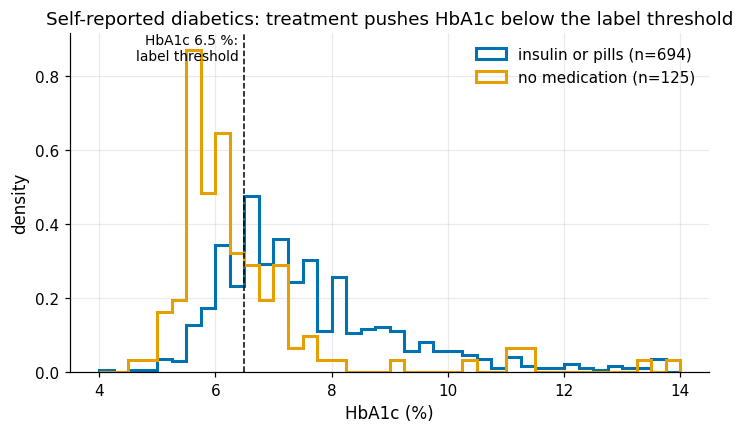
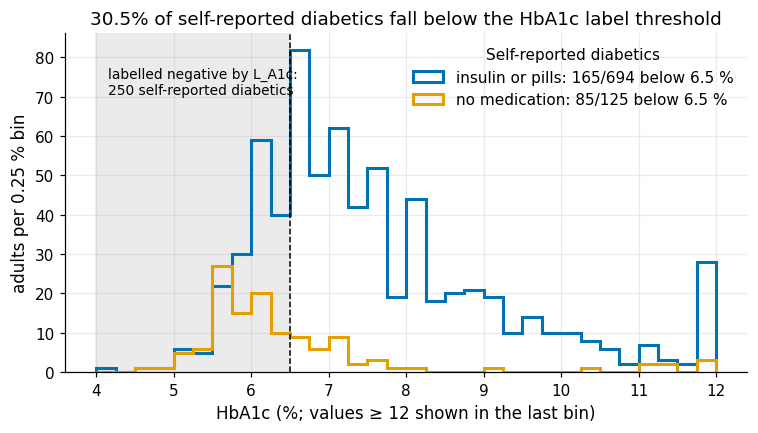
analysis(S5): redraw masking figure as counts with the threshold region
Counts per 0.25% bin instead of densities, shaded L_A1c-negative region and per-group counts below 6.5 (165/694 treated, 85/125 untreated) so the figure carries one message: 30.5% of self-reported diabetics are labelled negative by HbA1c.

Changed region(s): [[0.0, 0.03, 0.9892, 0.9908], [0.5255, 0.0901, 0.9892, 0.2702], [0.0309, 0.8406, 0.0927, 0.8707]]

diff --git a/notebooks/sections/04_labels_bias.py b/notebooks/sections/04_labels_bias.py
@@ -182,16 +182,18 @@ assert (n_ctrl, n_ctrl_med, len(unmed), n_unmed_pre, len(on_med)) == (250, 165, 
 close(n_ctrl / len(sr), 0.305, 0.001, "masking share")
 close(share_med_below, 0.238, 0.001, "treated with HbA1c < 6.5")
 
-fig, ax = plt.subplots(figsize=(7.5, 4))
-bins = np.arange(4.0, 14.01, 0.25)
-for flag, lab, col in [(1, f"insulin or pills (n={len(on_med)})", plots.PALETTE[4]),
-                       (0, f"no medication (n={len(sr) - len(on_med)})", plots.PALETTE[0])]:
-    ax.hist(sr.loc[sr["on_med"] == flag, "LBXGH"], bins=bins, histtype="step", lw=2, color=col,
-            density=True, label=lab)
+fig, ax = plt.subplots(figsize=(8, 4))
+bins = np.arange(4.0, 12.01, 0.25)
+ax.axvspan(4.0, C.HBA1C_DIABETES, color="0.92", zorder=0)
+for flag, lab, col in [(1, "insulin or pills", plots.PALETTE[4]), (0, "no medication", plots.PALETTE[0])]:
+    x = sr.loc[sr["on_med"] == flag, "LBXGH"].clip(upper=11.99)
+    below = int((x < C.HBA1C_DIABETES).sum())
+    ax.hist(x, bins=bins, histtype="step", lw=2, color=col, label=f"{lab}: {below}/{len(x)} below 6.5 %")
 ax.axvline(C.HBA1C_DIABETES, color="k", ls="--", lw=1)
-ax.text(C.HBA1C_DIABETES - 0.1, ax.get_ylim()[1] * 0.92, "HbA1c 6.5 %:\nlabel threshold", ha="right", fontsize=9)
-ax.set(xlabel="HbA1c (%)", ylabel="density", title="Self-reported diabetics: treatment pushes HbA1c below the label threshold")
-ax.legend(loc="upper right")
+ax.text(4.15, ax.get_ylim()[1] * 0.9, f"labelled negative by L_A1c:\n{n_ctrl} self-reported diabetics", fontsize=9, va="top")
+ax.set(xlabel="HbA1c (%; values ≥ 12 shown in the last bin)", ylabel="adults per 0.25 % bin",
+       title=f"{pct(n_ctrl / len(sr))} of self-reported diabetics fall below the HbA1c label threshold")
+ax.legend(loc="upper right", title="Self-reported diabetics")
 plots.savefig(fig, "S5_a1c_by_medication",
               caption=f"HbA1c distribution of the {len(sr)} self-reported diabetics by current insulin/pill use. "
                       f"{n_ctrl} ({pct(n_ctrl / len(sr))}) are below 6.5 %, {n_ctrl_med} of them treated.")
